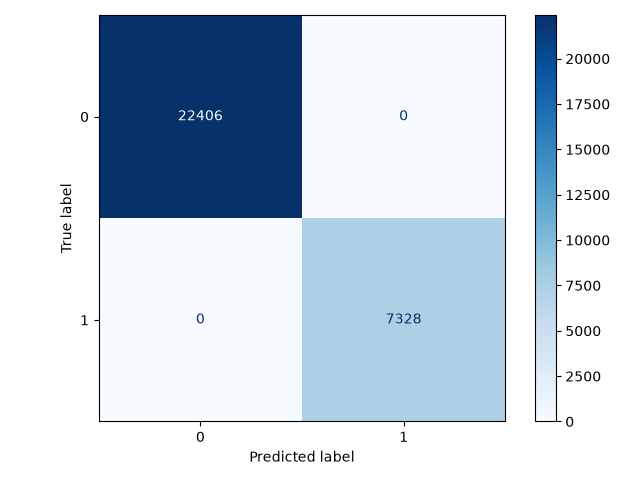
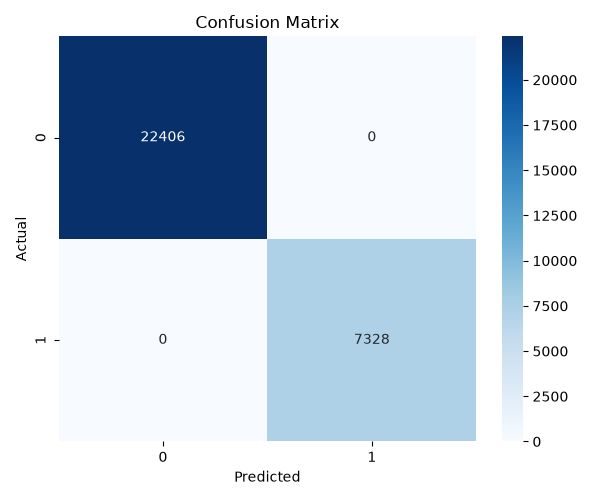
Add Random Forest training pipeline with MLflow tracking

diff --git a/ml/experiments/evaluate.py b/ml/experiments/evaluate.py
@@ -7,3 +7,171 @@
 # Classification Report
 
 # Log these plots as MLflow artifacts.
+
+import os
+import joblib
+import mlflow
+import matplotlib.pyplot as plt
+import seaborn as sns
+
+from sklearn.metrics import (
+    accuracy_score,
+    precision_score,
+    recall_score,
+    f1_score,
+    roc_auc_score,
+    confusion_matrix,
+    classification_report,
+    RocCurveDisplay,
+    PrecisionRecallDisplay,
+)
+
+# --------------------------------------------------
+# Paths
+# --------------------------------------------------
+
+BASE_DIR = os.path.dirname(os.path.dirname(os.path.abspath(__file__)))
+
+PROCESSED_DIR = os.path.join(BASE_DIR, "data", "processed")
+MODEL_DIR = os.path.join(BASE_DIR, "models")
+
+# --------------------------------------------------
+# MLflow Configuration
+# --------------------------------------------------
+
+mlflow.set_tracking_uri("http://localhost:5000")
+mlflow.set_experiment("loan-default-prediction")
+
+# --------------------------------------------------
+# Load Model & Data
+# --------------------------------------------------
+
+print("Loading model and test dataset...")
+
+model = joblib.load(os.path.join(MODEL_DIR, "loan_default_model.pkl"))
+
+X_test = joblib.load(os.path.join(PROCESSED_DIR, "X_test.pkl"))
+y_test = joblib.load(os.path.join(PROCESSED_DIR, "y_test.pkl"))
+
+# --------------------------------------------------
+# Predictions
+# --------------------------------------------------
+
+predictions = model.predict(X_test)
+probabilities = model.predict_proba(X_test)[:, 1]
+
+# --------------------------------------------------
+# Metrics
+# --------------------------------------------------
+
+accuracy = accuracy_score(y_test, predictions)
+precision = precision_score(y_test, predictions)
+recall = recall_score(y_test, predictions)
+f1 = f1_score(y_test, predictions)
+roc_auc = roc_auc_score(y_test, probabilities)
+
+print(f"Accuracy : {accuracy:.4f}")
+print(f"Precision: {precision:.4f}")
+print(f"Recall   : {recall:.4f}")
+print(f"F1 Score : {f1:.4f}")
+print(f"ROC AUC  : {roc_auc:.4f}")
+
+# --------------------------------------------------
+# MLflow Logging
+# --------------------------------------------------
+
+with mlflow.start_run(run_name="model-evaluation"):
+
+    mlflow.log_metric("accuracy", accuracy)
+    mlflow.log_metric("precision", precision)
+    mlflow.log_metric("recall", recall)
+    mlflow.log_metric("f1_score", f1)
+    mlflow.log_metric("roc_auc", roc_auc)
+
+    # ----------------------------
+    # Classification Report
+    # ----------------------------
+
+    report = classification_report(y_test, predictions)
+
+    report_path = os.path.join(
+        MODEL_DIR,
+        "classification_report.txt"
+    )
+
+    with open(report_path, "w") as file:
+        file.write(report)
+
+    mlflow.log_artifact(report_path)
+
+    # ----------------------------
+    # Confusion Matrix
+    # ----------------------------
+
+    plt.figure(figsize=(6, 5))
+
+    sns.heatmap(
+        confusion_matrix(y_test, predictions),
+        annot=True,
+        fmt="d",
+        cmap="Blues"
+    )
+
+    plt.title("Confusion Matrix")
+    plt.xlabel("Predicted")
+    plt.ylabel("Actual")
+
+    cm_path = os.path.join(
+        MODEL_DIR,
+        "confusion_matrix.png"
+    )
+
+    plt.tight_layout()
+    plt.savefig(cm_path)
+    plt.close()
+
+    mlflow.log_artifact(cm_path)
+
+    # ----------------------------
+    # ROC Curve
+    # ----------------------------
+
+    RocCurveDisplay.from_predictions(
+        y_test,
+        probabilities
+    )
+
+    plt.tight_layout()
+
+    roc_path = os.path.join(
+        MODEL_DIR,
+        "roc_curve.png"
+    )
+
+    plt.savefig(roc_path)
+    plt.close()
+
+    mlflow.log_artifact(roc_path)
+
+    # ----------------------------
+    # Precision Recall Curve
+    # ----------------------------
+
+    PrecisionRecallDisplay.from_predictions(
+        y_test,
+        probabilities
+    )
+
+    plt.tight_layout()
+
+    pr_path = os.path.join(
+        MODEL_DIR,
+        "precision_recall_curve.png"
+    )
+
+    plt.savefig(pr_path)
+    plt.close()
+
+    mlflow.log_artifact(pr_path)
+
+print("\nEvaluation completed successfully.")

diff --git a/ml/experiments/predict.py b/ml/experiments/predict.py
@@ -6,4 +6,105 @@
 
 # Return prediction
 
-# This will later be used by your FastAPI inference service.
+# This will later be used by FastAPI inference service.
+
+import os
+import joblib
+import pandas as pd
+
+# --------------------------------------------------
+# Paths
+# --------------------------------------------------
+
+BASE_DIR = os.path.dirname(os.path.dirname(os.path.abspath(__file__)))
+
+MODEL_DIR = os.path.join(BASE_DIR, "models")
+PROCESSED_DIR = os.path.join(BASE_DIR, "data", "processed")
+
+# --------------------------------------------------
+# Load Model & Preprocessor
+# --------------------------------------------------
+
+print("Loading model...")
+
+model = joblib.load(
+    os.path.join(MODEL_DIR, "loan_default_model.pkl")
+)
+
+preprocessor = joblib.load(
+    os.path.join(PROCESSED_DIR, "preprocessor.pkl")
+)
+
+# --------------------------------------------------
+# Example Input
+# --------------------------------------------------
+#Dynamic column collection
+#df = pd.read_csv("data/raw/Loan_Default.csv")
+#sample = df.drop(columns=["Status"]).iloc[[0]].copy()
+sample = {
+    "year": 2019,
+    "loan_limit": "cf",
+    "Gender": "Sex Not Available",
+    "approv_in_adv": "nopre",
+    "loan_type": "type1",
+    "loan_purpose": "p1",
+    "Credit_Worthiness": "l1",
+    "open_credit": "nopc",
+    "business_or_commercial": "nob/c",
+    "loan_amount": 116500,
+    "rate_of_interest": 4.0,
+    "Interest_rate_spread": 0.5,
+    "Upfront_charges": 1200,
+    "term": 360,
+    "Neg_ammortization": "not_neg",
+    "interest_only": "not_int",
+    "lump_sum_payment": "not_lpsm",
+    "property_value": 180000,
+    "construction_type": "sb",
+    "occupancy_type": "pr",
+    "Secured_by": "home",
+    "total_units": "1U",
+    "income": 6000,
+    "credit_type": "EXP",
+    "Credit_Score": 750,
+    "co-applicant_credit_type": "CIB",
+    "age": "35-44",
+    "submission_of_application": "to_inst",
+    "LTV": 65.0,
+    "Region": "south",
+    "Security_Type": "direct",
+    "dtir1": 30
+}
+
+# --------------------------------------------------
+# Convert to DataFrame
+# --------------------------------------------------
+
+input_df = pd.DataFrame([sample])
+
+# --------------------------------------------------
+# Apply Preprocessing
+# --------------------------------------------------
+
+processed_input = preprocessor.transform(input_df)
+
+# --------------------------------------------------
+# Prediction
+# --------------------------------------------------
+
+prediction = model.predict(processed_input)[0]
+
+probability = model.predict_proba(processed_input)[0]
+
+confidence = probability.max()
+
+# --------------------------------------------------
+# Output
+# --------------------------------------------------
+
+label = "Default" if prediction == 1 else "No Default"
+
+print("\nPrediction Result")
+print("------------------------")
+print(f"Prediction : {label}")
+print(f"Confidence : {confidence:.2%}")